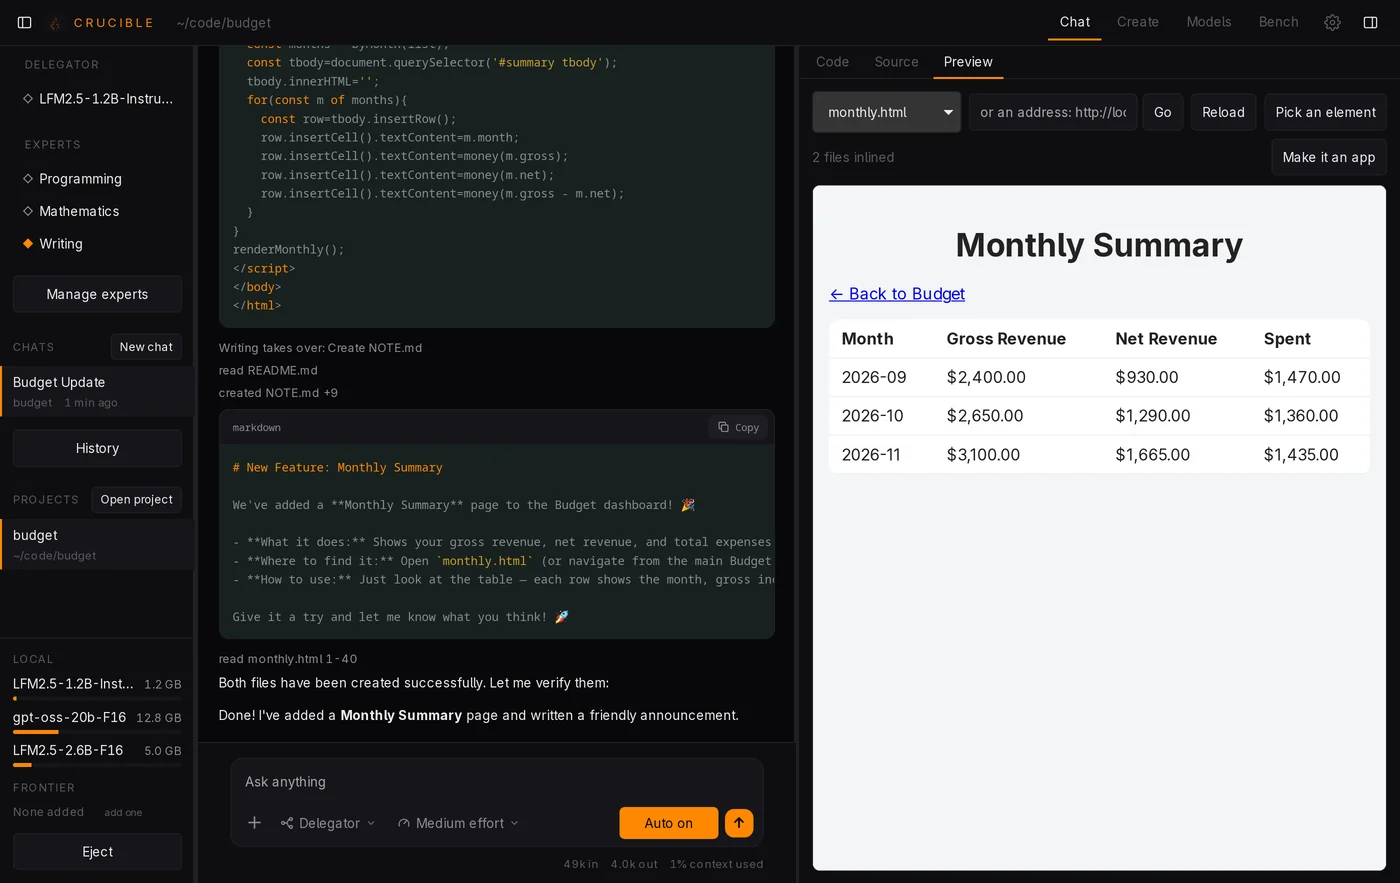
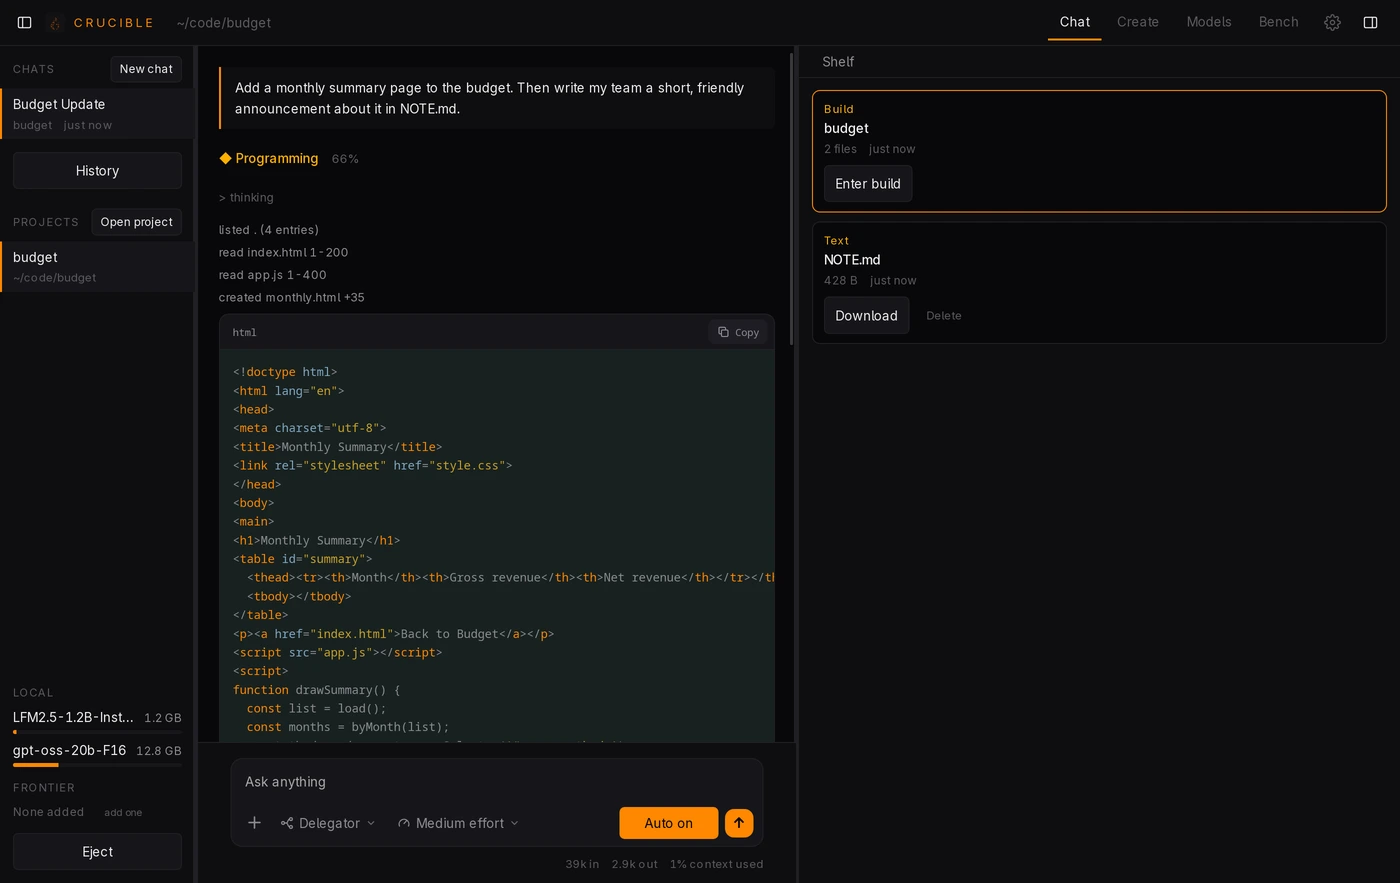
updating crucible

diff --git a/pages/projects/crucible/index.html b/pages/projects/crucible/index.html
@@ -125,7 +125,7 @@
     <div class="tour__shots">
       <figure class="tour__shot tour__shot--ask">
         <img src="/crucible/img/ask.webp" width="1400" height="883" decoding="async"
-             alt="Ask: one prompt worked by two experts in the chat, with the page they made open on the shelf beside it">
+             alt="Ask: one prompt worked in the chat, with what it made on the shelf beside it">
         <figcaption class="tour__line">Ask for anything. An expert reads, writes and runs what it takes in your project, then answers.</figcaption>
       </figure>
       <figure class="tour__shot tour__shot--preview">
